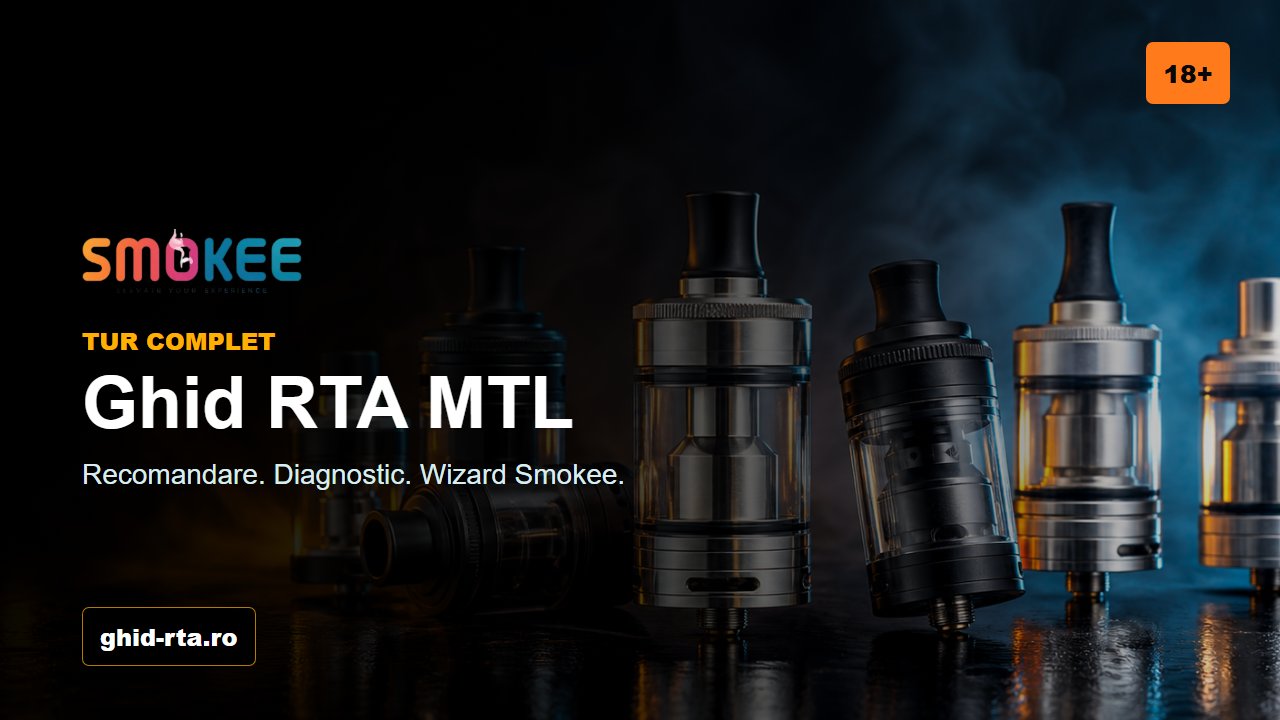
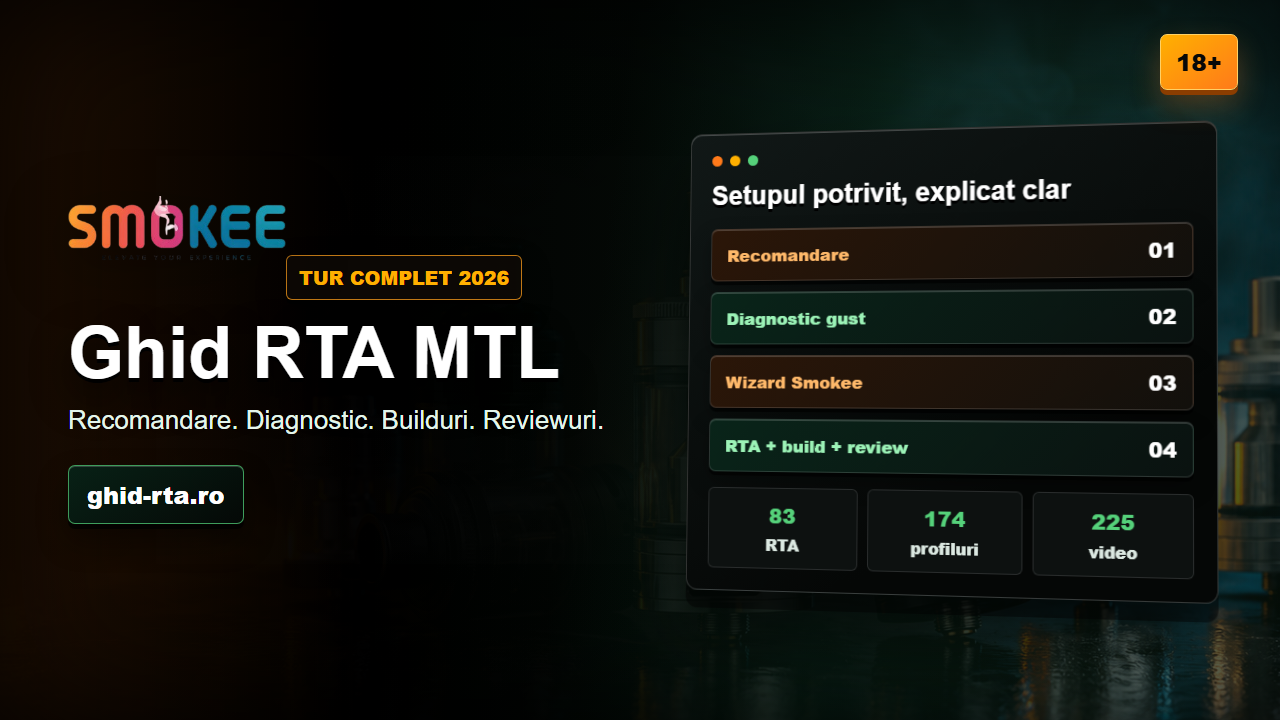
Publish new YouTube site tour

diff --git a/index.html b/index.html
@@ -117,13 +117,13 @@
 {
   "@context": "https://schema.org",
   "@type": "VideoObject",
-  "name": "Ghid RTA MTL - Recomandare, Diagnostic si Wizard Smokee",
-  "description": "Tur video al ghidului RTA MTL: Recomandare prin triangulare, Diagnostic gust, Wizard Smokee, Noutati si Moduri RTA.",
+  "name": "Ghid RTA MTL 2026 - Recomandare, Diagnostic, Builduri si Reviewuri",
+  "description": "Tur complet 18+ al ghidului RTA MTL: recomandare prin triangulare, diagnostic gust, Wizard Smokee, fise de atomizoare, builduri, reviewuri, noutati si moduri RTA.",
   "thumbnailUrl": "https://ghid-rta.ro/assets/ghid-rta-youtube-thumbnail.png",
-  "uploadDate": "2026-07-22",
-  "duration": "PT1M29S",
-  "contentUrl": "https://youtu.be/ZfjPZfOq_vg",
-  "embedUrl": "https://www.youtube.com/embed/ZfjPZfOq_vg",
+  "uploadDate": "2026-07-28",
+  "duration": "PT1M42S",
+  "contentUrl": "https://youtu.be/YpWkRtEAd7E",
+  "embedUrl": "https://www.youtube.com/embed/YpWkRtEAd7E",
   "isFamilyFriendly": false,
   "audience": {
     "@type": "PeopleAudience",
@@ -2071,7 +2071,7 @@ function rtaEarlyAccept(){
       <div class="brand-top"><img class="smokee-logo" src="assets/smokee-logo-official.png" alt="Smokee"><b>Ghid RTA MTL - Smokee</b><div class="language-switch brand-lang" aria-label="Limba / Language"><button type="button" data-lang="ro" class="active">RO</button><button type="button" data-lang="en">EN</button></div></div>
       <span>lichid - atomizor - sarma</span>
     </div>
-    <div class="site-search"><span class="search-icon" aria-hidden="true"></span><input id="globalSearch" type="search" placeholder="Cautare: atomizor, mod, lichid, sarma, diagnostic, review" autocomplete="off" aria-label="Cautare in aplicatie" /><a class="youtube-head-link" href="https://youtu.be/ZfjPZfOq_vg" target="_blank" rel="noopener noreferrer" aria-label="Vezi turul video pe YouTube" title="Tur video Ghid RTA MTL - Smokee"><span class="youtube-head-mark" aria-hidden="true"></span><span class="youtube-head-label">YouTube</span></a><a class="facebook-head-link" href="https://www.facebook.com/people/Ghid-RTA-MTL-Smokee/61591714687854/" target="_blank" rel="noopener noreferrer" aria-label="Urmareste pe Facebook" title="Pagina Facebook Ghid RTA MTL - Smokee"><span class="facebook-head-mark" aria-hidden="true">f</span><span class="facebook-head-label">Facebook</span></a>
+    <div class="site-search"><span class="search-icon" aria-hidden="true"></span><input id="globalSearch" type="search" placeholder="Cautare: atomizor, mod, lichid, sarma, diagnostic, review" autocomplete="off" aria-label="Cautare in aplicatie" /><a class="youtube-head-link" href="https://youtu.be/YpWkRtEAd7E" target="_blank" rel="noopener noreferrer" aria-label="Vezi turul video pe YouTube" title="Tur video Ghid RTA MTL - Smokee"><span class="youtube-head-mark" aria-hidden="true"></span><span class="youtube-head-label">YouTube</span></a><a class="facebook-head-link" href="https://www.facebook.com/people/Ghid-RTA-MTL-Smokee/61591714687854/" target="_blank" rel="noopener noreferrer" aria-label="Urmareste pe Facebook" title="Pagina Facebook Ghid RTA MTL - Smokee"><span class="facebook-head-mark" aria-hidden="true">f</span><span class="facebook-head-label">Facebook</span></a>
       <div class="search-panel" id="searchPanel" aria-label="Rezultate cautare">
         <div class="search-modes" id="searchModes"></div>
         <div class="search-results" id="searchResults"></div>

diff --git a/en/index.html b/en/index.html
@@ -118,13 +118,13 @@
 {
   "@context": "https://schema.org",
   "@type": "VideoObject",
-  "name": "Ghid RTA MTL - Recomandare, Diagnostic si Wizard Smokee",
-  "description": "Tur video al ghidului RTA MTL: Recomandare prin triangulare, Diagnostic gust, Wizard Smokee, Noutati si Moduri RTA.",
+  "name": "RTA MTL Guide 2026 - Recommendations, Diagnostics, Builds and Reviews",
+  "description": "Complete 18+ tour of the RTA MTL guide: triangulated recommendations, taste diagnostics, Smokee Wizard, atomizer profiles, builds, reviews, news and RTA mods.",
   "thumbnailUrl": "https://ghid-rta.ro/assets/ghid-rta-youtube-thumbnail.png",
-  "uploadDate": "2026-07-22",
-  "duration": "PT1M29S",
-  "contentUrl": "https://youtu.be/ZfjPZfOq_vg",
-  "embedUrl": "https://www.youtube.com/embed/ZfjPZfOq_vg",
+  "uploadDate": "2026-07-28",
+  "duration": "PT1M42S",
+  "contentUrl": "https://youtu.be/YpWkRtEAd7E",
+  "embedUrl": "https://www.youtube.com/embed/YpWkRtEAd7E",
   "isFamilyFriendly": false,
   "audience": {
     "@type": "PeopleAudience",
@@ -2072,7 +2072,7 @@ function rtaEarlyAccept(){
       <div class="brand-top"><img class="smokee-logo" src="assets/smokee-logo-official.png" alt="Smokee"><b>Ghid RTA MTL - Smokee</b><div class="language-switch brand-lang" aria-label="Limba / Language"><button type="button" data-lang="ro" class="active">RO</button><button type="button" data-lang="en">EN</button></div></div>
       <span>lichid - atomizor - sarma</span>
     </div>
-    <div class="site-search"><span class="search-icon" aria-hidden="true"></span><input id="globalSearch" type="search" placeholder="Cautare: atomizor, mod, lichid, sarma, diagnostic, review" autocomplete="off" aria-label="Cautare in aplicatie" /><a class="youtube-head-link" href="https://youtu.be/ZfjPZfOq_vg" target="_blank" rel="noopener noreferrer" aria-label="Vezi turul video pe YouTube" title="Tur video Ghid RTA MTL - Smokee"><span class="youtube-head-mark" aria-hidden="true"></span><span class="youtube-head-label">YouTube</span></a><a class="facebook-head-link" href="https://www.facebook.com/people/Ghid-RTA-MTL-Smokee/61591714687854/" target="_blank" rel="noopener noreferrer" aria-label="Urmareste pe Facebook" title="Pagina Facebook Ghid RTA MTL - Smokee"><span class="facebook-head-mark" aria-hidden="true">f</span><span class="facebook-head-label">Facebook</span></a>
+    <div class="site-search"><span class="search-icon" aria-hidden="true"></span><input id="globalSearch" type="search" placeholder="Search: atomizer, mod, liquid, wire, diagnostics, review" autocomplete="off" aria-label="Search the guide" /><a class="youtube-head-link" href="https://youtu.be/YpWkRtEAd7E" target="_blank" rel="noopener noreferrer" aria-label="Watch the video tour on YouTube" title="Ghid RTA MTL - Smokee video tour"><span class="youtube-head-mark" aria-hidden="true"></span><span class="youtube-head-label">YouTube</span></a><a class="facebook-head-link" href="https://www.facebook.com/people/Ghid-RTA-MTL-Smokee/61591714687854/" target="_blank" rel="noopener noreferrer" aria-label="Follow on Facebook" title="Ghid RTA MTL - Smokee Facebook page"><span class="facebook-head-mark" aria-hidden="true">f</span><span class="facebook-head-label">Facebook</span></a>
       <div class="search-panel" id="searchPanel" aria-label="Rezultate cautare">
         <div class="search-modes" id="searchModes"></div>
         <div class="search-results" id="searchResults"></div>
